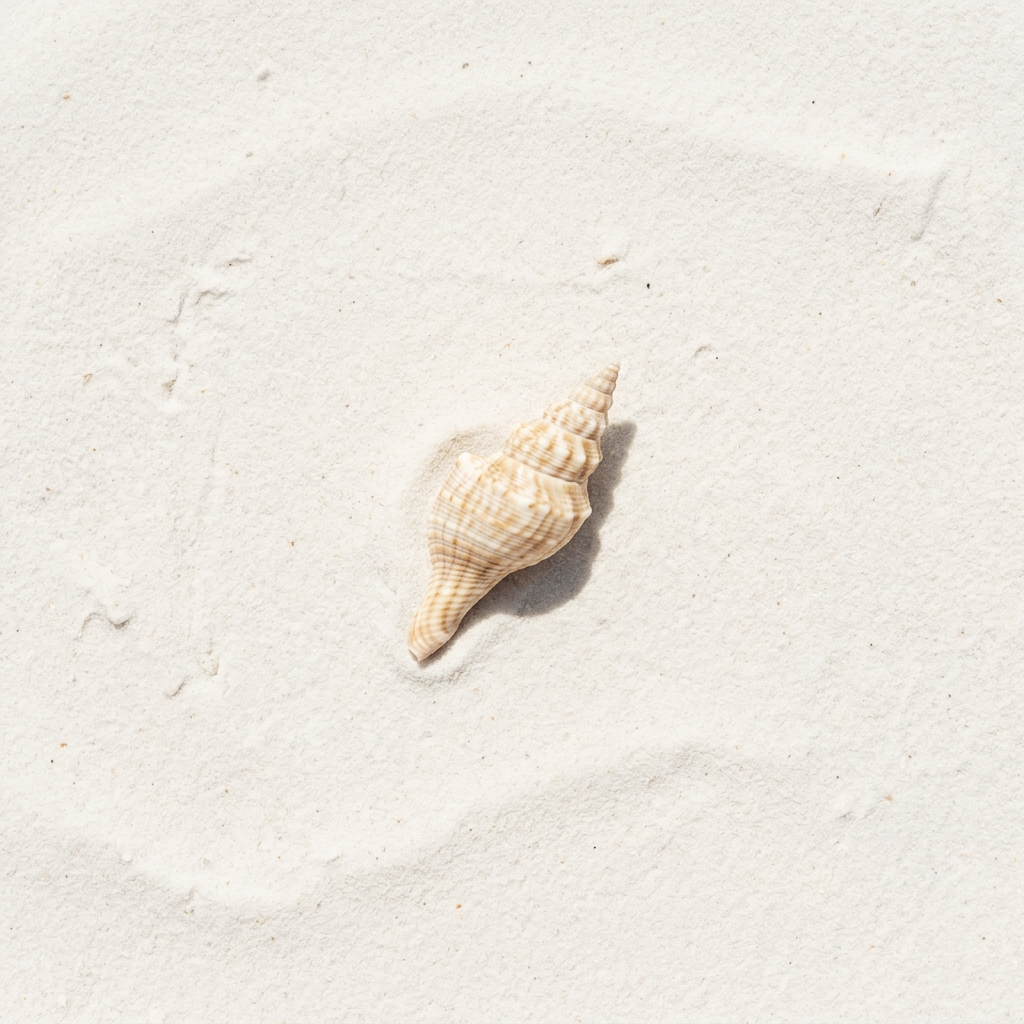
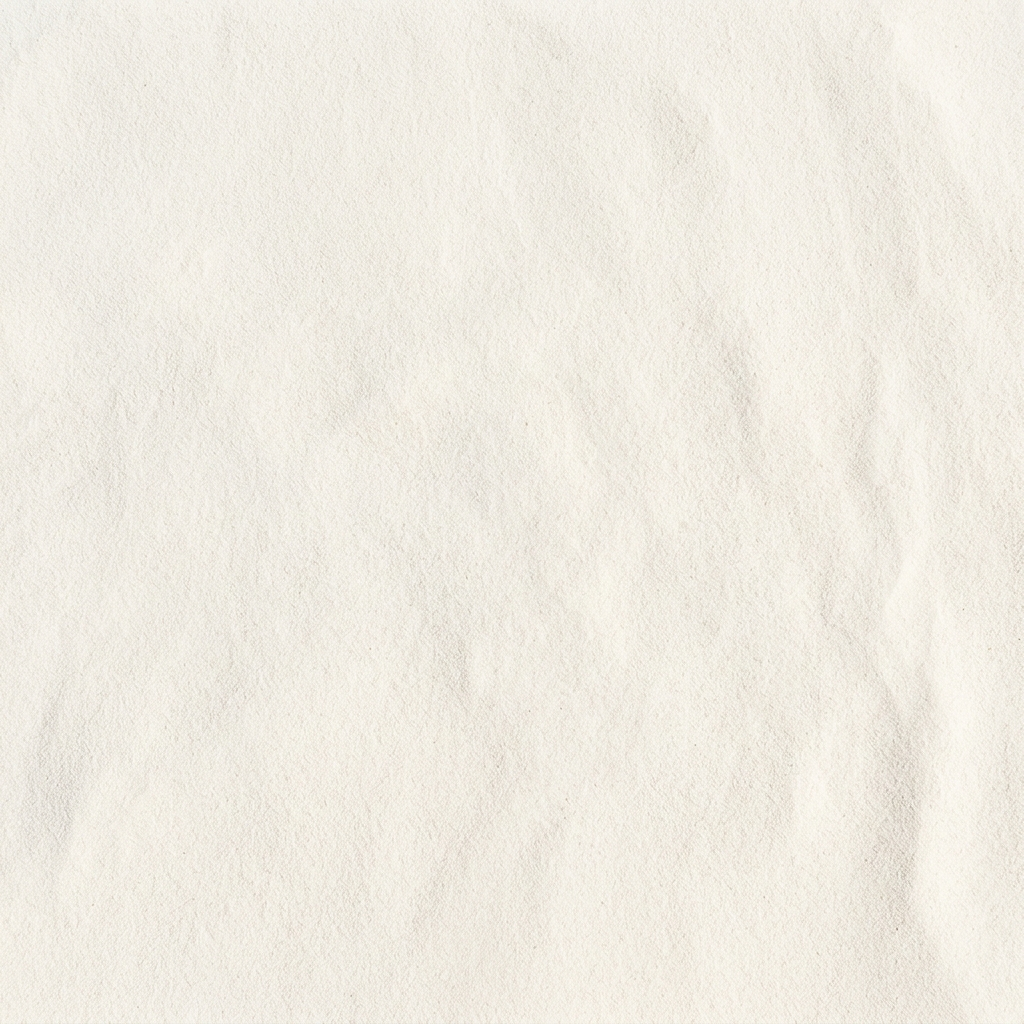
Update sand image without shell and add Music Admin feature

diff --git a/src/pages/admin/MusicTab.jsx b/src/pages/admin/MusicTab.jsx
@@ -1,0 +1,149 @@
+import React, { useState, useEffect } from 'react';
+
+const MusicTab = ({ adminToken }) => {
+  const [tracks, setTracks] = useState([]);
+  const [loading, setLoading] = useState(false);
+  const [newTitle, setNewTitle] = useState('');
+  const [newUrl, setNewUrl] = useState('');
+
+  const fetchTracks = async () => {
+    setLoading(true);
+    try {
+      const res = await fetch('/api/music');
+      if (res.ok) {
+        const data = await res.json();
+        setTracks(data);
+      }
+    } catch (e) {
+      console.error(e);
+    }
+    setLoading(false);
+  };
+
+  useEffect(() => {
+    fetchTracks();
+  }, []);
+
+  const handleAdd = async (e) => {
+    e.preventDefault();
+    if (!newTitle || !newUrl) return;
+    try {
+      const res = await fetch('/api/music', {
+        method: 'POST',
+        headers: {
+          'Content-Type': 'application/json',
+          'Authorization': `Bearer ${adminToken}`
+        },
+        body: JSON.stringify({ title: newTitle, url: newUrl })
+      });
+      if (res.ok) {
+        setNewTitle('');
+        setNewUrl('');
+        fetchTracks();
+      }
+    } catch (e) {
+      console.error(e);
+    }
+  };
+
+  const handleActivate = async (id) => {
+    try {
+      const res = await fetch(`/api/music/${id}/activate`, {
+        method: 'PUT',
+        headers: {
+          'Authorization': `Bearer ${adminToken}`
+        }
+      });
+      if (res.ok) fetchTracks();
+    } catch (e) {
+      console.error(e);
+    }
+  };
+
+  const handleDelete = async (id) => {
+    if (!window.confirm("Supprimer cette musique ?")) return;
+    try {
+      const res = await fetch(`/api/music/${id}`, {
+        method: 'DELETE',
+        headers: {
+          'Authorization': `Bearer ${adminToken}`
+        }
+      });
+      if (res.ok) fetchTracks();
+    } catch (e) {
+      console.error(e);
+    }
+  };
+
+  return (
+    <div style={{ maxWidth: 800, margin: '0 auto', padding: '2rem 1rem' }}>
+      <h2 style={{ marginBottom: '1.5rem', fontWeight: 600 }}>Ambiance Sonore</h2>
+      
+      <div style={{ background: '#fff', padding: '1.5rem', borderRadius: '12px', boxShadow: '0 2px 8px rgba(0,0,0,0.05)', marginBottom: '2rem' }}>
+        <h3 style={{ marginBottom: '1rem', fontSize: '1.1rem', fontWeight: 600 }}>Ajouter une musique</h3>
+        <form onSubmit={handleAdd} style={{ display: 'grid', gap: '1rem' }}>
+          <div>
+            <label style={{ display: 'block', marginBottom: '0.5rem', fontSize: '0.9rem', color: '#555' }}>Titre (ex: Mélodie avec vague)</label>
+            <input 
+              type="text" 
+              value={newTitle} 
+              onChange={e => setNewTitle(e.target.value)} 
+              placeholder="Titre de la musique"
+              style={{ width: '100%', padding: '0.75rem', borderRadius: '8px', border: '1px solid #ddd' }}
+              required
+            />
+          </div>
+          <div>
+            <label style={{ display: 'block', marginBottom: '0.5rem', fontSize: '0.9rem', color: '#555' }}>Lien Audio (URL directe vers un fichier .mp3, .webm, etc.)</label>
+            <input 
+              type="url" 
+              value={newUrl} 
+              onChange={e => setNewUrl(e.target.value)} 
+              placeholder="https://..."
+              style={{ width: '100%', padding: '0.75rem', borderRadius: '8px', border: '1px solid #ddd' }}
+              required
+            />
+          </div>
+          <button type="submit" style={{ padding: '0.75rem 1.5rem', background: 'var(--ink)', color: '#fff', borderRadius: '8px', border: 'none', fontWeight: 600, cursor: 'pointer', justifySelf: 'start' }}>
+            Ajouter la musique
+          </button>
+        </form>
+      </div>
+
+      <div style={{ background: '#fff', padding: '1.5rem', borderRadius: '12px', boxShadow: '0 2px 8px rgba(0,0,0,0.05)' }}>
+        <h3 style={{ marginBottom: '1rem', fontSize: '1.1rem', fontWeight: 600 }}>Musiques disponibles</h3>
+        {loading ? (
+          <p>Chargement...</p>
+        ) : tracks.length === 0 ? (
+          <p style={{ color: '#777' }}>Aucune musique ajoutée pour le moment.</p>
+        ) : (
+          <div style={{ display: 'flex', flexDirection: 'column', gap: '1rem' }}>
+            {tracks.map(track => (
+              <div key={track.id} style={{ display: 'flex', alignItems: 'center', justifyContent: 'space-between', padding: '1rem', borderRadius: '8px', border: track.isActive ? '2px solid var(--ink)' : '1px solid #ddd', background: track.isActive ? '#fafafa' : '#fff' }}>
+                <div>
+                  <h4 style={{ margin: 0, fontWeight: 600, display: 'flex', alignItems: 'center', gap: '0.5rem' }}>
+                    {track.title}
+                    {track.isActive && <span style={{ fontSize: '0.75rem', padding: '2px 8px', background: 'var(--ink)', color: '#fff', borderRadius: '12px' }}>Active</span>}
+                  </h4>
+                  <a href={track.url} target="_blank" rel="noreferrer" style={{ fontSize: '0.8rem', color: '#666', textDecoration: 'none', marginTop: '0.25rem', display: 'block' }}>{track.url}</a>
+                </div>
+                <div style={{ display: 'flex', gap: '0.5rem' }}>
+                  {!track.isActive && (
+                    <button onClick={() => handleActivate(track.id)} style={{ padding: '0.5rem 1rem', background: '#f5f5f5', border: '1px solid #ddd', borderRadius: '6px', cursor: 'pointer', fontSize: '0.9rem' }}>
+                      Activer
+                    </button>
+                  )}
+                  <button onClick={() => handleDelete(track.id)} style={{ padding: '0.5rem 1rem', background: '#ffeeee', color: '#d32f2f', border: '1px solid #ffcdcd', borderRadius: '6px', cursor: 'pointer', fontSize: '0.9rem' }}>
+                    Supprimer
+                  </button>
+                </div>
+              </div>
+            ))}
+          </div>
+        )}
+      </div>
+    </div>
+  );
+};
+
+export default MusicTab;

diff --git a/api/index.js b/api/index.js
@@ -191,6 +191,52 @@ app.post('/api/stats/visit', async (req, res) => {
   
   res.json({ visitors: totalVisitors });
 });
+// --- MUSIC API ---
+app.get('/api/music', async (req, res) => {
+  try {
+    const tracks = await prisma.musicTrack.findMany();
+    res.json(tracks);
+  } catch (error) {
+    res.status(500).json({ error: error.message });
+  }
+});
+
+app.post('/api/music', authMiddleware, async (req, res) => {
+  try {
+    const { title, url } = req.body;
+    const count = await prisma.musicTrack.count();
+    const track = await prisma.musicTrack.create({
+      data: { title, url, isActive: count === 0 }
+    });
+    res.json(track);
+  } catch (error) {
+    res.status(500).json({ error: error.message });
+  }
+});
+
+app.put('/api/music/:id/activate', authMiddleware, async (req, res) => {
+  try {
+    const id = parseInt(req.params.id);
+    await prisma.musicTrack.updateMany({ data: { isActive: false } });
+    const track = await prisma.musicTrack.update({
+      where: { id },
+      data: { isActive: true }
+    });
+    res.json(track);
+  } catch (error) {
+    res.status(500).json({ error: error.message });
+  }
+});
+
+app.delete('/api/music/:id', authMiddleware, async (req, res) => {
+  try {
+    const id = parseInt(req.params.id);
+    await prisma.musicTrack.delete({ where: { id } });
+    res.json({ success: true });
+  } catch (error) {
+    res.status(500).json({ error: error.message });
+  }
+});
 
 // --- GLOBAL ERROR HANDLER ---
 app.use((err, req, res, next) => {

diff --git a/src/pages/Admin.jsx b/src/pages/Admin.jsx
@@ -2,6 +2,7 @@ import React, { useState, useContext, useEffect } from 'react';
 import { ProductsContext } from '../context/ProductsContext';
 import { ShopContext } from '../context/ShopContext';
 import Login from './admin/Login';
+import MusicTab from './admin/MusicTab';
 import { BarChart, Bar, XAxis, YAxis, CartesianGrid, Tooltip, Legend, ResponsiveContainer } from 'recharts';
 const Admin = () => {
   const { adminToken, logoutAdmin } = useContext(ShopContext);
@@ -239,9 +240,19 @@ const Admin = () => {
                 style={{ padding: '8px 16px', background: activeTab === 'analytics' ? '#111' : '#eee', color: activeTab === 'analytics' ? '#fff' : '#333', border: 'none', borderRadius: '8px', fontWeight: 700, cursor: 'pointer' }}>
                 📊 Statistiques
               </button>
+              <button 
+                onClick={() => setActiveTab('music')}
+                style={{ padding: '8px 16px', background: activeTab === 'music' ? '#111' : '#eee', color: activeTab === 'music' ? '#fff' : '#333', border: 'none', borderRadius: '8px', fontWeight: 700, cursor: 'pointer' }}>
+                🎵 Ambiance Sonore
+              </button>
             </div>
           </div>
         </div>
+
+        {/* --- TAB: MUSIC --- */}
+        {activeTab === 'music' && (
+          <MusicTab adminToken={adminToken} />
+        )}
 
         {/* --- TAB: ORDERS --- */}
         {activeTab === 'orders' && (

diff --git a/src/components/AudioPlayer.jsx b/src/components/AudioPlayer.jsx
@@ -2,11 +2,33 @@ import React, { useState, useRef, useEffect } from 'react';
 
 const AudioPlayer = () => {
   const [isPlaying, setIsPlaying] = useState(false);
+  const [activeUrl, setActiveUrl] = useState(null);
   const audioRef = useRef(null);
 
   useEffect(() => {
+    // Fetch active music track
+    const fetchMusic = async () => {
+      try {
+        const res = await fetch('/api/music');
+        if (res.ok) {
+          const tracks = await res.json();
+          const active = tracks.find(t => t.isActive);
+          if (active) {
+            setActiveUrl(active.url);
+          }
+        }
+      } catch (e) {
+        console.error("Erreur chargement musique:", e);
+      }
+    };
+    fetchMusic();
+  }, []);
+
+  useEffect(() => {
+    if (!activeUrl) return;
+
     // Create audio element programmatically to avoid DOM clutter
-    const audio = new Audio('/ambiance.webm');
+    const audio = new Audio(activeUrl);
     audio.loop = true;
     audio.volume = 0.4; // Soft background volume
     audioRef.current = audio;
@@ -15,7 +37,9 @@ const AudioPlayer = () => {
       audio.pause();
       audio.src = '';
     };
-  }, []);
+  }, [activeUrl]);
+
+  if (!activeUrl) return null; // Don't show player if no active music
 
   const togglePlay = () => {
     if (isPlaying) {
